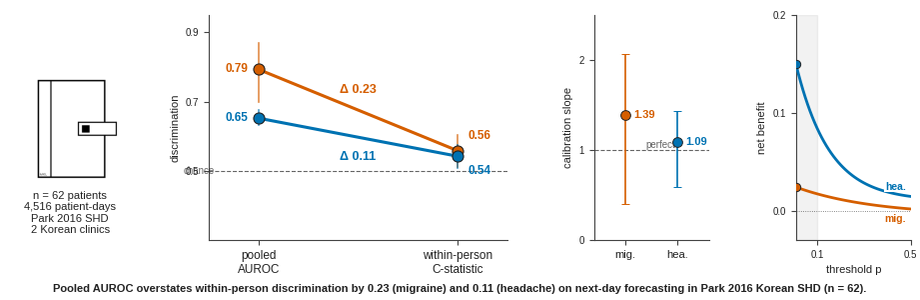
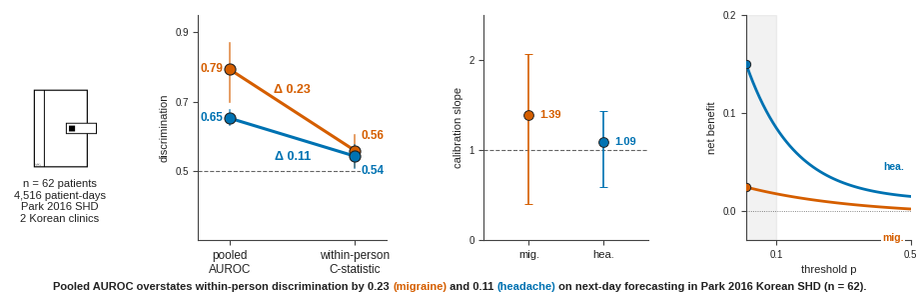
rebalanced graphical abstract panel widths and colored target legend

diff --git a/docs/methodAndResults_diagramCreatorScripts/graphical_abstract.py b/docs/methodAndResults_diagramCreatorScripts/graphical_abstract.py
@@ -29,6 +29,7 @@ from pathlib import Path
 
 import matplotlib.pyplot as plt
 import numpy as np
+from matplotlib.offsetbox import AnnotationBbox, HPacker, TextArea
 from PIL import Image
 
 HERE = Path(__file__).resolve().parent
@@ -74,10 +75,9 @@ def _draw_slopegraph(ax) -> None:
     hea_col = S.target_color("headache")
     # x positions: pooled at 0, within at 1
     x = [0, 1]
-    # Chance band; label in the empty left margin so it does not collide with CI whiskers
+    # Dashed reference at 0.5 (chance); the y-axis tick at 0.5 carries the
+    # numeric and the dashed line carries the semantic, no inline label needed.
     ax.axhline(0.5, color=S.REF_COLOR, lw=0.8, ls="--", alpha=0.6, zorder=1)
-    ax.text(-0.22, 0.5, "chance", fontsize=7, va="center", ha="right",
-            color=S.INK, alpha=0.7)
     # Migraine slope
     mig_y = [MIGRAINE["pooled"], MIGRAINE["within"]]
     ax.plot(x, mig_y, color=mig_col, lw=2.2, zorder=4,
@@ -94,16 +94,23 @@ def _draw_slopegraph(ax) -> None:
                        (1, HEADACHE["within"], HEADACHE["within_ci"])]:
         ax.plot([xi, xi], [ci[0], ci[1]], color=hea_col, lw=1.2, alpha=0.7, zorder=3)
     # Endpoint value labels
+    # Endpoint value labels — white bbox so the labels read clean against the
+    # crossing slope of the other target.
+    label_box = dict(fc="white", ec="none", pad=0.8)
     ax.text(-0.05, MIGRAINE["pooled"], f"{MIGRAINE['pooled']:.2f}", ha="right",
-            va="center", fontsize=8.5, color=mig_col, fontweight="bold")
+            va="center", fontsize=8.5, color=mig_col, fontweight="bold",
+            bbox=label_box)
     # Within-person endpoints sit 0.016 apart; offset vertically so the
     # 0.56 / 0.54 labels do not stack on top of each other.
     ax.text(1.05, MIGRAINE["within"] + 0.025, f"{MIGRAINE['within']:.2f}",
-            ha="left", va="bottom", fontsize=8.5, color=mig_col, fontweight="bold")
+            ha="left", va="bottom", fontsize=8.5, color=mig_col, fontweight="bold",
+            bbox=label_box)
     ax.text(-0.05, HEADACHE["pooled"], f"{HEADACHE['pooled']:.2f}", ha="right",
-            va="center", fontsize=8.5, color=hea_col, fontweight="bold")
+            va="center", fontsize=8.5, color=hea_col, fontweight="bold",
+            bbox=label_box)
     ax.text(1.05, HEADACHE["within"] - 0.025, f"{HEADACHE['within']:.2f}",
-            ha="left", va="top", fontsize=8.5, color=hea_col, fontweight="bold")
+            ha="left", va="top", fontsize=8.5, color=hea_col, fontweight="bold",
+            bbox=label_box)
     # Delta annotations at midpoint
     mig_delta = MIGRAINE["pooled"] - MIGRAINE["within"]
     hea_delta = HEADACHE["pooled"] - HEADACHE["within"]
@@ -131,10 +138,9 @@ def _draw_slopegraph(ax) -> None:
 def _draw_calibration(ax) -> None:
     mig_col = S.target_color("migraine")
     hea_col = S.target_color("headache")
-    # Reference line at unity
+    # Dashed reference at 1.0; the y-axis tick already carries the numeric
+    # and "calibration slope" axis label tells the reader 1.0 is the ideal.
     ax.axhline(1.0, color=S.REF_COLOR, lw=0.8, ls="--", alpha=0.6, zorder=1)
-    ax.text(0.96, 1.0, "perfect", fontsize=7, va="bottom", ha="right",
-            color=S.INK, alpha=0.7)
     # Dots with CIs
     for i, (name, d, col) in enumerate(
         [("migraine", MIGRAINE, mig_col), ("headache", HEADACHE, hea_col)]
@@ -181,13 +187,15 @@ def _draw_dca_sparkline(ax) -> None:
             markersize=6, mfc=hea_col, mec=S.INK, mew=0.7, zorder=4)
     ax.plot(t[0], migraine_nb[0], "o", color=mig_col,
             markersize=6, mfc=mig_col, mec=S.INK, mew=0.7, zorder=4)
-    # White bbox lifts the endpoint labels off the curves.
-    ax.text(0.48, headache_nb[-1] + 0.005, "hea.", color=hea_col,
+    # Lift the endpoint labels well above the curves with a white bbox so the
+    # curve strokes are not visually broken.
+    label_box = dict(fc="white", ec="none", pad=0.8)
+    ax.text(0.48, headache_nb[-1] + 0.025, "hea.", color=hea_col,
             fontsize=7.5, fontweight="bold", ha="right", va="bottom",
-            bbox=dict(fc="white", ec="none", pad=0.5))
-    ax.text(0.48, migraine_nb[-1] - 0.005, "mig.", color=mig_col,
+            bbox=label_box)
+    ax.text(0.48, migraine_nb[-1] - 0.025, "mig.", color=mig_col,
             fontsize=7.5, fontweight="bold", ha="right", va="top",
-            bbox=dict(fc="white", ec="none", pad=0.5))
+            bbox=label_box)
     ax.set_xlim(0.01, 0.50)
     ax.set_ylim(-0.03, 0.20)
     ax.set_xticks([0.10, 0.50])
@@ -206,22 +214,37 @@ def main() -> None:
 
     fig, (ax_cohort, ax_gap, ax_cal, ax_dca) = plt.subplots(
         1, 4, figsize=(9.21, 3.00), dpi=100,
-        gridspec_kw={"width_ratios": [0.9, 2.6, 1.0, 1.0]},
+        gridspec_kw={"width_ratios": [0.7, 1.6, 1.4, 1.4]},
     )
     _draw_cohort(ax_cohort)
     _draw_slopegraph(ax_gap)
     _draw_calibration(ax_cal)
     _draw_dca_sparkline(ax_dca)
 
-    # Bottom-strip claim sentence (TRIPOD+AI for Abstracts Items 1 + 12)
-    fig.text(
-        0.5, 0.025,
-        "Pooled AUROC overstates within-person discrimination by 0.23 (migraine) "
-        "and 0.11 (headache) on next-day forecasting in Park 2016 Korean SHD (n = 62).",
-        ha="center", fontsize=8, color=S.INK, fontweight="bold",
-    )
+    # Bottom-strip claim sentence (TRIPOD+AI for Abstracts Items 1 + 12).
+    # The target words carry their data colour so the sentence itself serves
+    # as the colour legend; HPacker keeps the colored segments baseline-aligned.
+    mig_col = S.target_color("migraine")
+    hea_col = S.target_color("headache")
+    segments = [
+        ("Pooled AUROC overstates within-person discrimination by 0.23 ",
+         S.INK, "bold"),
+        ("(migraine)", mig_col, "bold"),
+        (" and 0.11 ", S.INK, "bold"),
+        ("(headache)", hea_col, "bold"),
+        (" on next-day forecasting in Park 2016 Korean SHD (n = 62).",
+         S.INK, "bold"),
+    ]
+    text_areas = [
+        TextArea(s, textprops=dict(color=c, fontsize=8, fontweight=w))
+        for s, c, w in segments
+    ]
+    hpacker = HPacker(children=text_areas, align="baseline", pad=0, sep=0)
+    ab = AnnotationBbox(hpacker, (0.5, 0.025), xycoords="figure fraction",
+                        frameon=False, box_alignment=(0.5, 0))
+    fig.add_artist(ab)
     fig.subplots_adjust(left=0.02, right=0.99, top=0.95, bottom=0.20,
-                        wspace=0.55)
+                        wspace=0.65)
 
     out_png = HERE / "figures" / "graphical_abstract.png"
     fig.savefig(out_png, dpi=100, bbox_inches=None,
